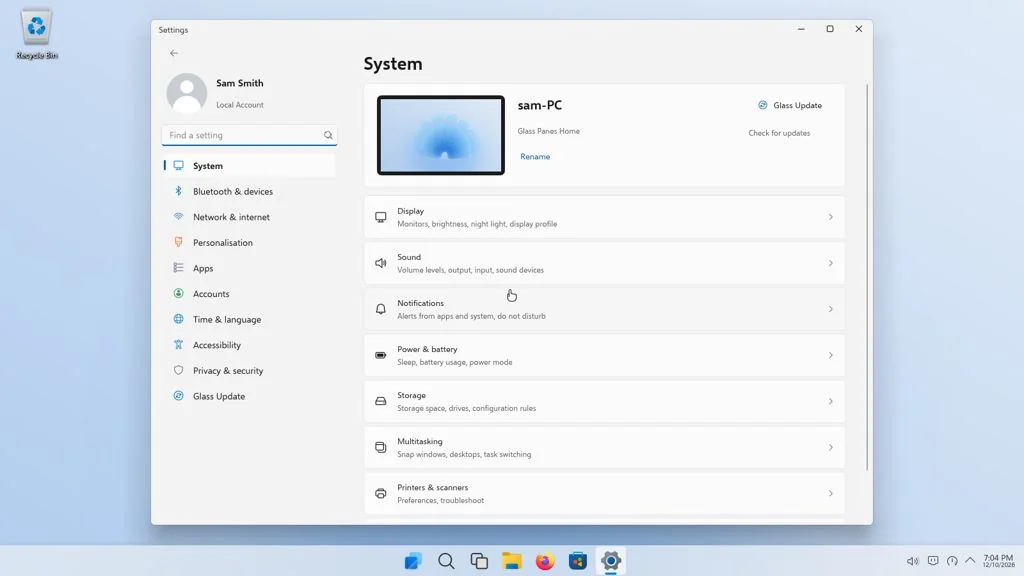
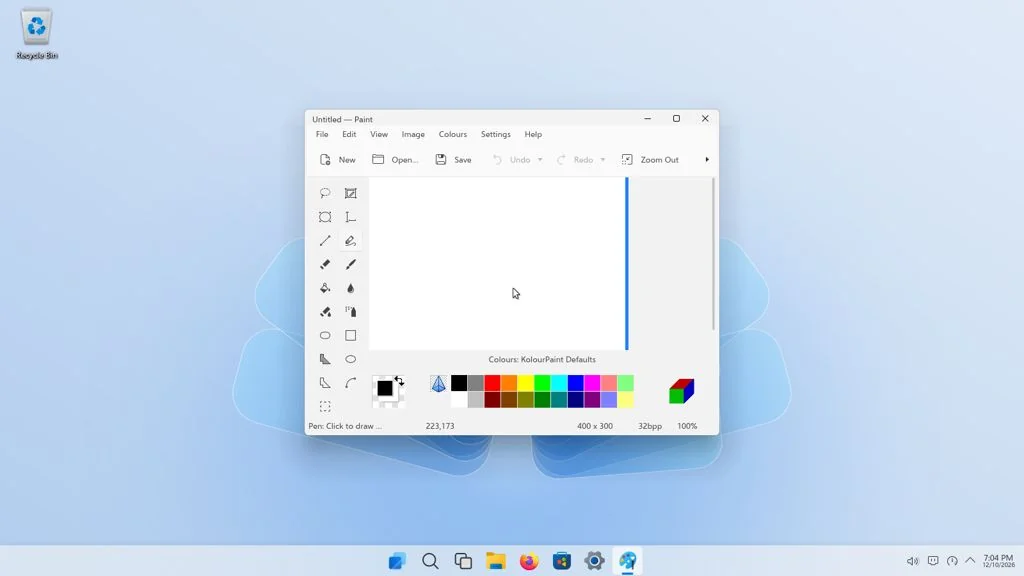
Update Glass Panes

diff --git a/products/glass-panes/index.html b/products/glass-panes/index.html
@@ -28,7 +28,7 @@
   <div class="shots">
     <figure><img src="shot-1.webp" alt="File Explorer, with the centred taskbar and Start button"><figcaption>File Explorer, with the centred taskbar and Start button</figcaption></figure>
     <figure><img src="shot-2.webp" alt="Win+Z opens snap layouts for the current window"><figcaption>Win+Z opens snap layouts for the current window</figcaption></figure>
-    <figure><img src="shot-3.webp" alt="Settings, laid out like Windows"><figcaption>Settings, laid out like Windows</figcaption></figure>
+    <figure><img src="shot-3.webp" alt="Paint, one of the everyday apps"><figcaption>Paint, one of the everyday apps</figcaption></figure>
     <figure><img src="shot-4.webp" alt="The Store, for Debian and Flathub apps"><figcaption>The Store, for Debian and Flathub apps</figcaption></figure>
     <figure><img src="shot-5.webp" alt="Task Manager"><figcaption>Task Manager</figcaption></figure>
     <figure><img src="shot-6.webp" alt="Cherry Move, for bringing files from an old computer"><figcaption>Cherry Move, for bringing files from an old computer</figcaption></figure>
